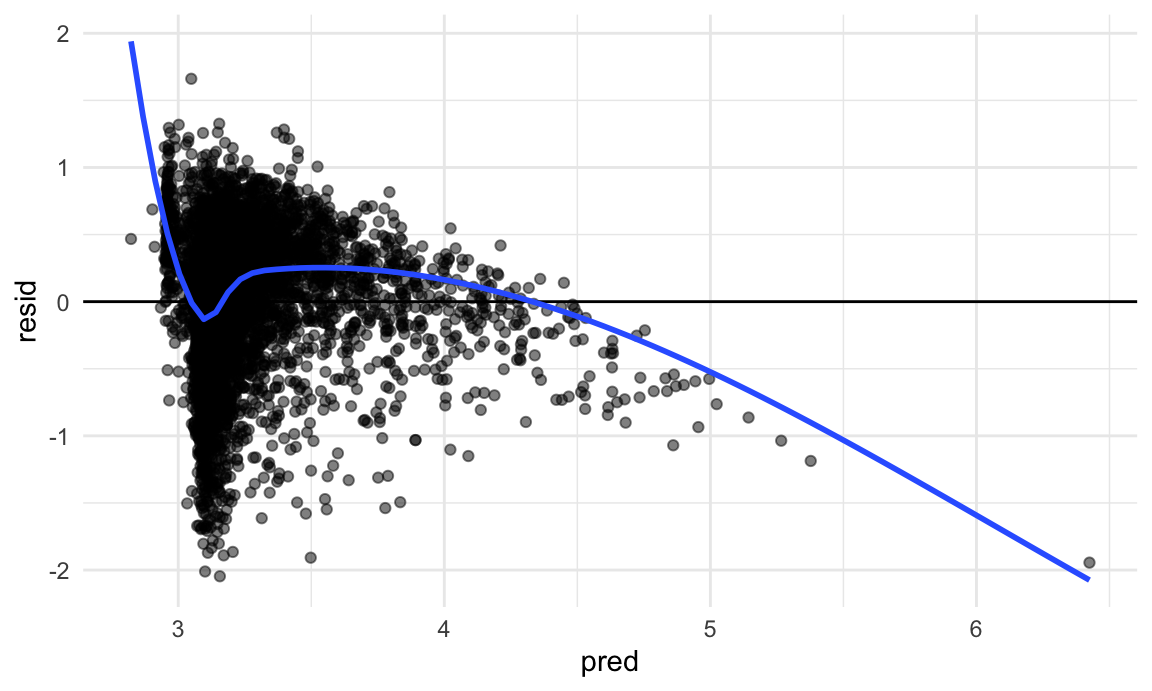
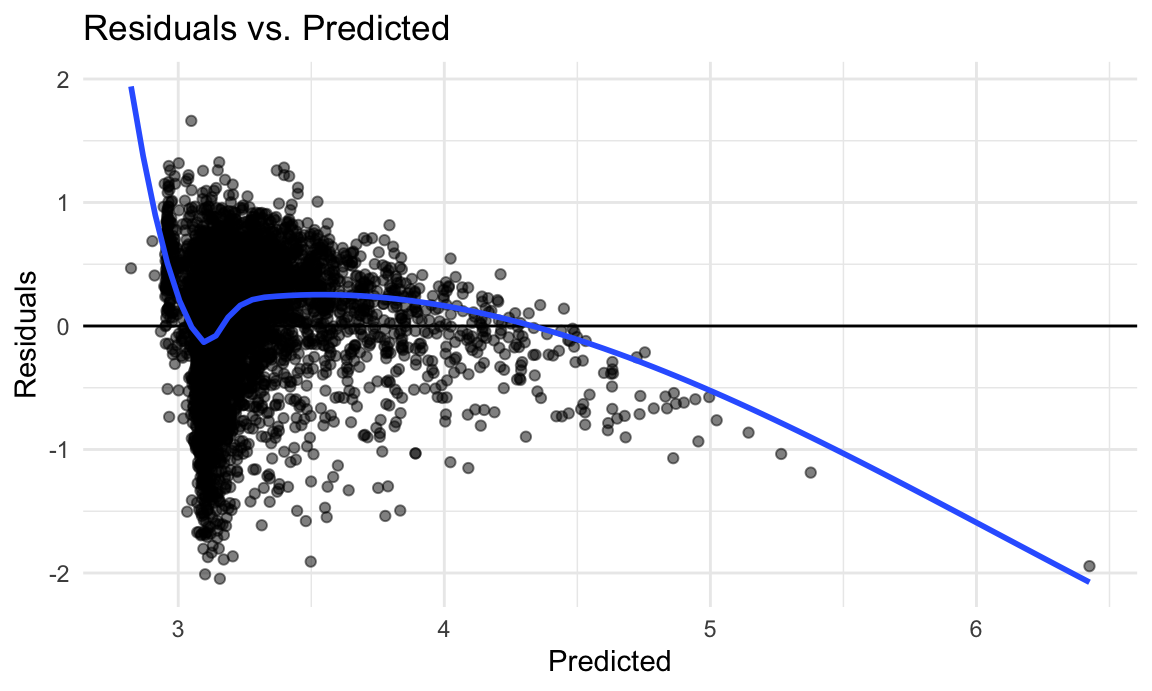
editing model

diff --git a/model.html b/model.html
@@ -391,7 +391,6 @@ div.tocify {
 </div>
 
 
-<p>This will include all code for building our model</p>
 <pre class="r"><code>library(tidyverse)
 library(mgcv)
 library(modelr)
@@ -456,10 +455,15 @@ lasso_fit_opt |&gt;
 <li>lowest</li>
 <li>highest</li>
 </ul>
-<p>Using outside knowledge, we would like to include total number of
-watches and exclude lowest and highest (number of lowest ratings and
-number of highest ratings)</p>
-<p>linear model</p>
+<p>We would like to include total number of watches and exclude lowest
+and highest (number of lowest ratings and number of highest ratings) as
+this may be repeatitive with the rating variable.</p>
+<p>Previously, in our regression analysis we saw that a linear model
+seems to not be the most effective in modeling the association between
+average rating and other variables such as runtime, list appearances,
+total watches, and fans. Using these variables, we will construct
+different models to identify what will be the most “optimal” model.</p>
+<p>First let’s revisit our linear model from earlier.</p>
 <pre class="r"><code>linear_model = lm(average_rating ~ runtime + list_appearances + watches + fans, data = model_movie_df)
 
 
@@ -469,8 +473,12 @@ model_movie_df |&gt;
   ggplot(aes(x = pred, y = resid)) +
   geom_point(alpha = 0.5) +
   geom_hline(yintercept = 0) +
-  geom_smooth(method = &quot;loess&quot;, se = FALSE)</code></pre>
-<pre><code>## `geom_smooth()` using formula = &#39;y ~ x&#39;</code></pre>
+  geom_smooth(method = &quot;loess&quot;, se = FALSE) +
+  labs(
+    title = &quot;Residuals vs. Predicted&quot;,
+    x = &quot;Predicted&quot;,
+    y = &quot;Residuals&quot;
+  )</code></pre>
 <p><img src="model_files/figure-html/unnamed-chunk-4-1.png" width="90%" /></p>
 <pre class="r"><code>linear_model |&gt; broom::glance()</code></pre>
 <pre><code>## # A tibble: 1 × 12
@@ -478,25 +486,12 @@ model_movie_df |&gt;
 ##       &lt;dbl&gt;         &lt;dbl&gt; &lt;dbl&gt;     &lt;dbl&gt;   &lt;dbl&gt; &lt;dbl&gt;  &lt;dbl&gt;  &lt;dbl&gt;  &lt;dbl&gt;
 ## 1     0.191         0.190 0.471      475.       0     4 -5382. 10776. 10818.
 ## # ℹ 3 more variables: deviance &lt;dbl&gt;, df.residual &lt;int&gt;, nobs &lt;int&gt;</code></pre>
-<p>gam model</p>
-<pre class="r"><code>gam_model = gam(average_rating ~ s(runtime) + s(list_appearances) + s(watches) + s(fans), data = model_movie_df)
-
-model_movie_df |&gt; 
-  add_predictions(gam_model) |&gt; 
-  add_residuals(gam_model) |&gt; 
-  ggplot(aes(x = pred, y = resid)) +
-  geom_point(alpha = 0.5) +
-  geom_hline(yintercept = 0) +
-  geom_smooth(method = &quot;loess&quot;, se = FALSE)</code></pre>
-<pre><code>## `geom_smooth()` using formula = &#39;y ~ x&#39;</code></pre>
-<p><img src="model_files/figure-html/unnamed-chunk-5-1.png" width="90%" /></p>
-<pre class="r"><code>gam_model |&gt; 
-  broom::glance()</code></pre>
-<pre><code>## # A tibble: 1 × 9
-##      df logLik   AIC   BIC deviance df.residual  nobs adj.r.squared  npar
-##   &lt;dbl&gt;  &lt;dbl&gt; &lt;dbl&gt; &lt;dbl&gt;    &lt;dbl&gt;       &lt;dbl&gt; &lt;int&gt;         &lt;dbl&gt; &lt;int&gt;
-## 1  35.9 -4238. 8550. 8808.    1351.       8038.  8074         0.388    37</code></pre>
-<p>build training and testing tibbles</p>
+<p>The linear model has very high AIC/BIC values, and low R^2. The plot
+of residuals and predicted values also seems to be very skewed and not
+approximately evenly distributed around 0. Given this, if a linear model
+is not the most “optimal” model, what model should be used?</p>
+<p>We will use cross validation to test a several different modeling
+options, and try to identify the one with the smallest RMSE.</p>
 <pre class="r"><code>cv_df = 
   crossv_mc(model_movie_df, 100) 
 
@@ -511,12 +506,22 @@ cv_df =
   cv_df |&gt; 
   mutate(
     linear_mod  = map(train, \(df) lm(average_rating ~ runtime + list_appearances + watches + fans, data = df)),
-    smooth_mod  = map(train, \(df) gam(average_rating ~ s(runtime) + s(list_appearances) + s(watches) + s(fans), data = df))
+    smooth_mod  = map(train, \(df) gam(average_rating ~ s(runtime) + s(list_appearances) + s(watches) + s(fans), data = df)),
+    log_level_mod = map(train, \(df) lm(log(average_rating) ~ runtime + list_appearances + watches + fans, data = df)),
+    glm_mod = map(train, \(df) glm(average_rating ~ runtime + list_appearances + watches + fans, family = gaussian(link = &quot;log&quot;), data = df)),
+    log_log_mod = map(train, \(df) lm(log(average_rating) ~ log1p(runtime) + log1p(list_appearances) + log1p(watches) + log1p(fans), data = df)),
     ) |&gt; 
   mutate(
     rmse_linear = map2_dbl(linear_mod, test, \(mod, df) rmse(model = mod, data = df)),
-    rmse_smooth = map2_dbl(smooth_mod, test, \(mod, df) rmse(model = mod, data = df)))
-
+    rmse_smooth = map2_dbl(smooth_mod, test, \(mod, df) rmse(model = mod, data = df)),
+    rmse_log_level = map2_dbl(log_level_mod, test, \(mod, df) rmse(model = mod, data = df)),
+  rmse_glm = map2_dbl(
+  glm_mod, test, ~ {preds = predict(.x, newdata = .y, type = &quot;response&quot;) 
+  .y |&gt; 
+      mutate(error = average_rating - preds) |&gt; 
+      summarize(rmse = sqrt(mean(error^2))) |&gt; 
+      pull(rmse)}),
+  rmse_log_log = map2_dbl(log_log_mod, test, \(mod, df) rmse(model = mod, data = df)))
 
 cv_df |&gt; 
   select(starts_with(&quot;rmse&quot;)) |&gt; 
@@ -526,74 +531,48 @@ cv_df |&gt;
     values_to = &quot;rmse&quot;,
     names_prefix = &quot;rmse_&quot;) |&gt; 
   mutate(model = fct_inorder(model)) |&gt; 
-  ggplot(aes(x = model, y = rmse)) + geom_violin()</code></pre>
+  ggplot(aes(x = model, y = rmse)) + geom_violin() +
+  labs(
+    title = &quot;Root Mean Squared Error Distributions&quot;,
+    y = &quot;Model&quot;,
+    x = &quot;RMSE&quot;
+  )</code></pre>
+<p><img src="model_files/figure-html/unnamed-chunk-5-1.png" width="90%" /></p>
+<p>When comparing a linear, smooth, log-level, log-log, and GLM model,
+we can see that the linear model has the highest RMSE, while the log-log
+and log_level model have the lowest RMSE.</p>
+<p>Let’s look at the residuals and predicted values plot comparing the
+log-level and log-log models:</p>
+<pre class="r"><code>log_log_model = lm(log(average_rating) ~ log1p(runtime) + log1p(list_appearances) + log1p(watches) + log1p(fans), data = model_movie_df) 
+
+log_level_model = lm(log(average_rating) ~ runtime + list_appearances + watches + fans, data = model_movie_df)
+
+log_log = model_movie_df |&gt;
+  add_predictions(log_log_model) |&gt;
+  add_residuals(log_log_model) |&gt;
+  mutate(model = &quot;Log-Log Model&quot;)
+
+log_level = model_movie_df |&gt;
+  add_predictions(log_level_model) |&gt;
+  add_residuals(log_level_model) |&gt;
+  mutate(model = &quot;Log-Level Model&quot;)
+
+combined_df &lt;- bind_rows(log_log, log_level)
+
+ggplot(combined_df, aes(pred, resid)) +
+  geom_point(alpha = 0.5) +
+  geom_hline(yintercept = 0, color = &quot;red&quot;) +
+  geom_smooth(method = &quot;loess&quot;, se = FALSE) +
+  facet_wrap(~ model) +
+  labs(
+    title = &quot;Residuals vs Predicted Across Models&quot;,
+    x = &quot;Predicted&quot;,
+    y = &quot;Residuals&quot;
+  )</code></pre>
 <p><img src="model_files/figure-html/unnamed-chunk-6-1.png" width="90%" /></p>
-<p>we want to use a smooth model &gt; a linear model</p>
-<ul>
-<li>smooth model has lower rmse</li>
-<li>also seen in the plot of resid vs. pred - the linear model is not
-evenly distributed across resid = 0</li>
-</ul>
-<p>The optimal model that we think predicts <code>average_rating</code>
-is a generalized additive model containing the following predictors:</p>
-<ul>
-<li>runtime</li>
-<li>list appearances</li>
-<li>watches</li>
-<li>fans</li>
-</ul>
-<pre class="r"><code>summary(gam_model)</code></pre>
-<pre><code>## 
-## Family: gaussian 
-## Link function: identity 
-## 
-## Formula:
-## average_rating ~ s(runtime) + s(list_appearances) + s(watches) + 
-##     s(fans)
-## 
-## Parametric coefficients:
-##             Estimate Std. Error t value Pr(&gt;|t|)    
-## (Intercept) 3.210954   0.004562   703.8   &lt;2e-16 ***
-## ---
-## Signif. codes:  0 &#39;***&#39; 0.001 &#39;**&#39; 0.01 &#39;*&#39; 0.05 &#39;.&#39; 0.1 &#39; &#39; 1
-## 
-## Approximate significance of smooth terms:
-##                       edf Ref.df      F p-value    
-## s(runtime)          8.333  8.846  81.89  &lt;2e-16 ***
-## s(list_appearances) 8.793  8.988 200.14  &lt;2e-16 ***
-## s(watches)          9.000  9.000 186.24  &lt;2e-16 ***
-## s(fans)             8.775  8.983  53.77  &lt;2e-16 ***
-## ---
-## Signif. codes:  0 &#39;***&#39; 0.001 &#39;**&#39; 0.01 &#39;*&#39; 0.05 &#39;.&#39; 0.1 &#39; &#39; 1
-## 
-## R-sq.(adj) =  0.388   Deviance explained =   39%
-## GCV = 0.16879  Scale est. = 0.16804   n = 8074</code></pre>
-<p>significant p-value suggests that the non-linear relationship between
-the predictor and the response is statistically significant</p>
-<p>if we want to use a linear model</p>
-<pre class="r"><code>summary(linear_model)</code></pre>
-<pre><code>## 
-## Call:
-## lm(formula = average_rating ~ runtime + list_appearances + watches + 
-##     fans, data = model_movie_df)
-## 
-## Residuals:
-##      Min       1Q   Median       3Q      Max 
-## -2.04642 -0.27131  0.07398  0.31200  1.66101 
-## 
-## Coefficients:
-##                    Estimate Std. Error t value Pr(&gt;|t|)    
-## (Intercept)       2.942e+00  1.572e-02 187.172  &lt; 2e-16 ***
-## runtime           1.577e-03  1.465e-04  10.762  &lt; 2e-16 ***
-## list_appearances  6.758e-06  2.387e-07  28.307  &lt; 2e-16 ***
-## watches          -4.313e-07  2.617e-08 -16.481  &lt; 2e-16 ***
-## fans             -2.294e-06  7.741e-07  -2.963  0.00305 ** 
-## ---
-## Signif. codes:  0 &#39;***&#39; 0.001 &#39;**&#39; 0.01 &#39;*&#39; 0.05 &#39;.&#39; 0.1 &#39; &#39; 1
-## 
-## Residual standard error: 0.4714 on 8069 degrees of freedom
-## Multiple R-squared:  0.1906, Adjusted R-squared:  0.1902 
-## F-statistic: 475.1 on 4 and 8069 DF,  p-value: &lt; 2.2e-16</code></pre>
+<p>From this we can conclude that a log-log model seems to be the best
+to model the relationship between average rating and runtime, list
+appearances, total watches, and fans.</p>
 
 
 
